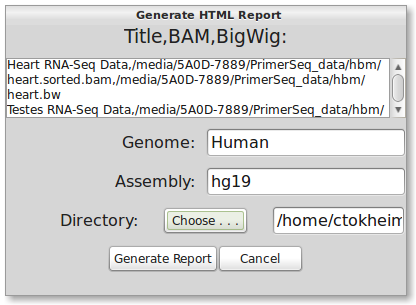
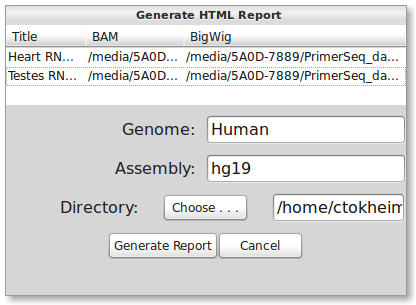
v1.0.3.beta first commit

diff --git a/user_tutorial.md b/user_tutorial.md
@@ -209,13 +209,32 @@ Press the "Save Plots" button. The below dialog should appear.
 </br>
 
 You will need to fill out titles and bigwig files that correspond to the BAM file(s).
-Each line has three comma separated inputs. The first is the title, second is the BAM file
-(already filled in), and the third is the corresponding BigWig file (you will need to fill in the path).
+**Click** on the table cell to start editing. The first column is the title, second is the BAM file
+(already filled in), and the third is the corresponding BigWig file (fill in the file path). Specifying
+a BigWig file is **optional** and is only needed to display the read depth.
 An example is shown below:
 
-<pre style="overflow-x: scroll; white-space: nowrap;">Heart RNA-Seq Data,/media/5A0D-7889/PrimerSeq_data/hbm/heart.sorted.bam,/media/5A0D-7889/PrimerSeq_data/hbm/heart.bw<br/>
-Testes RNA-Seq Data,/media/5A0D-7889/PrimerSeq_data/hbm/testes.sorted.bam,/media/5A0D-7889/PrimerSeq_data/hbm/testes.bw
-</pre>
+<table class="table table-hover">
+    <thead>
+        <tr>
+            <th>Title</th>
+            <th>BAM</th>
+            <th>BigWig</th>
+        </tr>
+    </thead>
+    <tbody>
+        <tr>
+            <td>Heart RNA-Seq Data</td>
+            <td>path/to/heart.sorted.bam</td>
+            <td>path/to/heart.bw</td>
+        </tr>
+        <tr>
+            <td>Testes RNA-Seq Data</td>
+            <td>path/to/testes.sorted.bam</td>
+            <td>path/to/testes.bw</td>
+        </tr>
+    </tbody>
+</table>
 
 If you need a different Genome/Assembly then Human/hg19 then please read the [FAQ](faq.html#collapseEleven) page. You will also need to specify the directory you wish to save the HTML files to. When ready,
 press the "Generate Report" button. Generating the HTML may take a couple of minutes. When finished,

diff --git a/downloads.md b/downloads.md
@@ -9,8 +9,8 @@ description: ""
 
 Follow the instructions for [Windows](windows.html) or [Linux](linux.html) after downloading.
 
-* [Windows: PrimerSeq v1.0.2.beta](http://sourceforge.net/projects/primerseq/files/PrimerSeq/PrimerSeq.1.0.2.beta.win32.exe/download)
-* [Linux: PrimerSeq v1.0.2.beta (*Source*)](https://github.com/ctokheim/PrimerSeq/archive/v1.0.2.beta.tar.gz)
+* [Windows: PrimerSeq v1.0.3.beta](http://sourceforge.net/projects/primerseq/files/PrimerSeq/PrimerSeq.1.0.3.beta.win32.exe/download)
+* [Linux: PrimerSeq v1.0.3.beta (*Source*)](https://github.com/ctokheim/PrimerSeq/archive/v1.0.3.beta.tar.gz)
 
 ## Annotations
 
@@ -41,11 +41,13 @@ If you want other genome sequences from Ensembl you can visit their [FTP downloa
 
 ### Windows
 
+* [Windows: PrimerSeq v1.0.2.beta](http://sourceforge.net/projects/primerseq/files/PrimerSeq/PrimerSeq.1.0.2.beta.win32.exe/download)
 * [Windows: PrimerSeq v1.0.1.beta](http://sourceforge.net/projects/primerseq/files/PrimerSeq/PrimerSeq.1.0.1.beta.win32.exe/download)
 * [Windows: PrimerSeq v1.0.0.beta](http://sourceforge.net/projects/primerseq/files/PrimerSeq/PrimerSeq.1.0.0.beta.win32.exe/download)
 
 ### Linux
 
+* [Linux: PrimerSeq v1.0.2.beta (*Source*)](https://github.com/ctokheim/PrimerSeq/archive/v1.0.2.beta.tar.gz)
 * [Linux: PrimerSeq v1.0.1.beta (*Source*)](https://github.com/ctokheim/PrimerSeq/archive/v1.0.1.beta.tar.gz)
 * [Linux: PrimerSeq v1.0.0.beta (*Source*)](https://github.com/ctokheim/PrimerSeq/archive/v1.0.0.beta.tar.gz)
 

diff --git a/linux.md b/linux.md
@@ -20,9 +20,9 @@ following.
 * Super user access
 
 {% highlight bash %}
-$ wget https://github.com/ctokheim/PrimerSeq/archive/v1.0.1.beta.tar.gz
-$ tar xvzf v1.0.1.beta.tar.gz
-$ cd PrimerSeq-1.0.1.beta
+$ wget https://github.com/ctokheim/PrimerSeq/archive/v1.0.3.beta.tar.gz
+$ tar xvzf v1.0.3.beta.tar.gz
+$ cd PrimerSeq-1.0.3.beta
 $ sudo ./install.ubuntu.sh
 {% endhighlight %}
 
